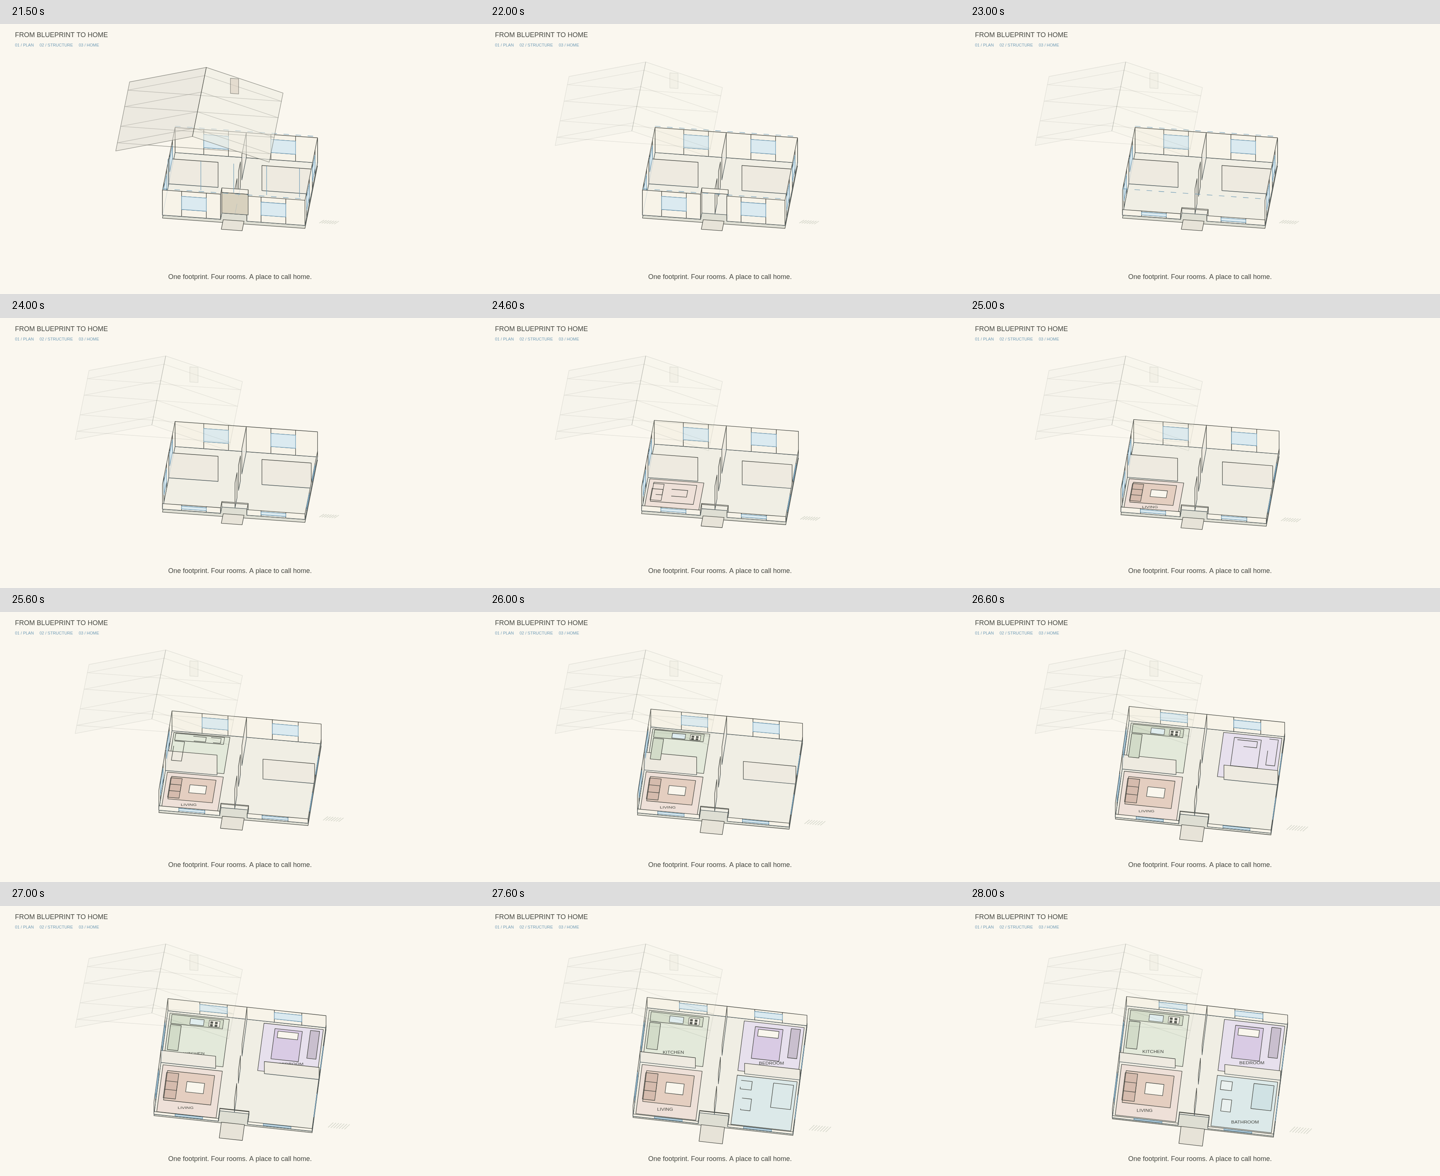
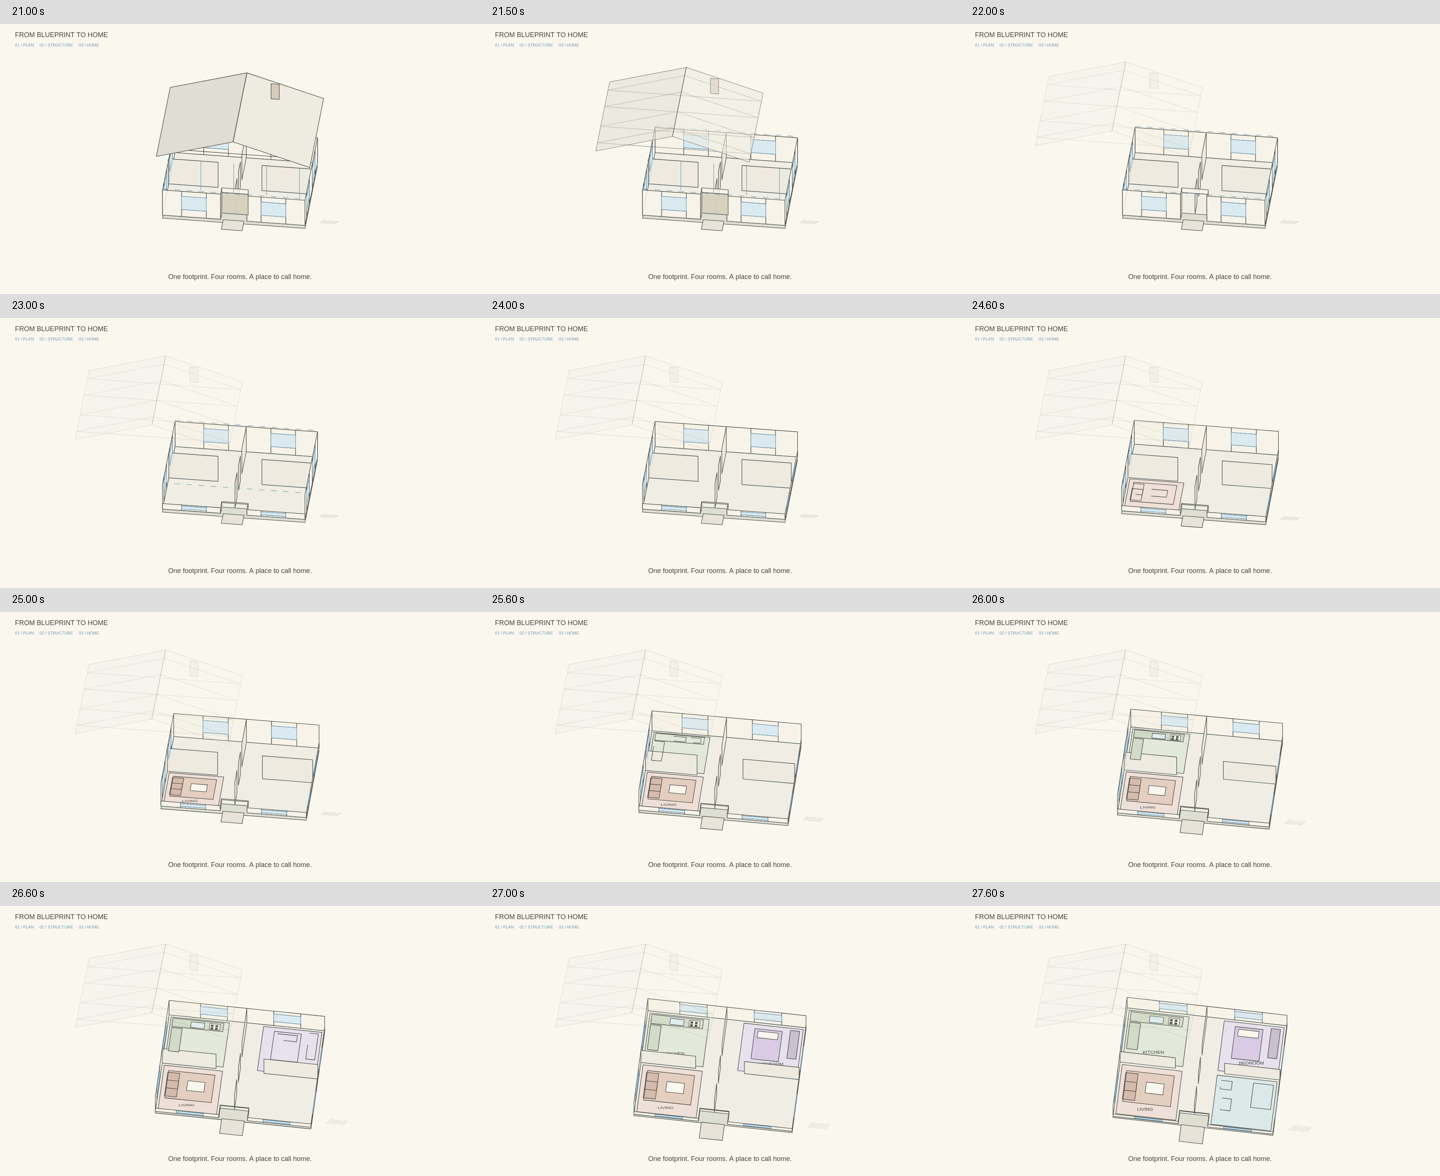
Keep roof separation cue visible and capture its reveal

diff --git a/fixtures/motionscript/stories/build-from-blueprint-to-home.ts b/fixtures/motionscript/stories/build-from-blueprint-to-home.ts
@@ -118,6 +118,7 @@ roof('ridge',[[0,-210,180],[0,210,180]],14.3);
 roof('chimney',[[100,-110,150],[130,-110,150],[130,-110,210],[100,-110,210]],14.4,'#d7cbbd');
 // Blue segmented separation guides replace a dash capability.
 for(let i=0;i<12;i++) for(const [j,y] of [-190,190].entries()) line(`guide${j}n${i}`,[[-260+i*44,y,105],[-240+i*44,y,105]],18,BLUE,24,undefined,29);
+line('roofSeparation',[[-260,232,103],[260,232,103]],18,BLUE,19.2,undefined,31);
 for(let i=0;i<5;i++) line(`liftGuide${i}`,[[i*120-240,190,110],[i*120-240,190,225]],19,BLUE,22,undefined,28);
 floorRect('entryPath',-38,193,76,58,'#e7e3d8',15,0);
 for(let i=0;i<7;i++) line(`hatch${i}`,[[310+i*9,170,0],[325+i*9,150,0]],15,'#cccfc2',undefined,undefined,0);
@@ -224,7 +225,7 @@ assert(Math.hypot(westGap.x-eastGap.x,westGap.y-eastGap.y)>120,'Central circulat
 hidden(9.9,'winRearWest'); visible(12,'winFrontEast'); visible(12,'entranceDoor');
 assert(same(vertices(item(12,'entranceDoor'))[0]!.y,vertices(item(12,'entranceDoor'))[1]!.y-96*Math.sin(.24)*.6*.8,2),'Door failed to close into recess');
 visible(13.5,'truss0'); visible(15,'roofEast'); visible(15,'chimney');
-visible(17,'entryPath'); hidden(17,'guide0n0'); visible(18.5,'guide0n0');
+visible(17,'entryPath'); hidden(17,'guide0n0'); visible(18.5,'guide0n0'); visible(18.5,'roofSeparation');
 const r19=vertices(item(19,'roofWest')),r21=vertices(item(21,'roofWest'));
 for(let k=1;k<r19.length;k++) assert(same((r19[k]!.x-r19[0]!.x)*.92,r21[k]!.x-r21[0]!.x)&&same((r19[k]!.y-r19[0]!.y)*.92,r21[k]!.y-r21[0]!.y),'Roof lift distorted assembly');
 for(const t of [19.25,19.5,19.75,20,20.25,20.5,20.75,21.5]) {
@@ -256,7 +257,7 @@ for(const [index,r] of rooms.entries()) {
 }
 assert(item(28.3,'blueFootprint').opacity>.95&&item(29.5,'blueFootprint').opacity<.3,'Blueprint highlight timing wrong');
 // Interval sweep and every required boundary: all visible path vertices above captions.
-const captureTimes=[0,1,2,2.75,3.5,4.9,5,6,7,8,9,10,11,12,12.75,13.5,14.25,15,16,17,18,19,20,21,21.5,22,23,24,24.6,25,25.6,26,26.6,27,27.6,28,28.3,29,30];
+const captureTimes=[0,1,2,2.75,3.5,4.9,5,6,7,8,9,10,11,12,12.75,13.5,14.25,15,16,17,18,18.5,19,20,21,21.5,22,23,24,24.6,25,25.6,26,26.6,27,27.6,28,28.3,29,30];
 for(let t=0;t<=30;t+=.25) for(const i of frame(t)) {
  if(i.opacity<.04||i.geometry.kind!=='path')continue;
  for(const p of vertices(i)) assert(p.x>=12&&p.x<=1268&&p.y>=80&&p.y<650,`${i.nodeId} outside drawing area at ${t}: ${JSON.stringify(p)}`);

diff --git a/docs/authoring/stories/from-blueprint-to-home/evidence/README.md b/docs/authoring/stories/from-blueprint-to-home/evidence/README.md
@@ -10,7 +10,7 @@ GVR_PREVIEW_DIR=work/home-preview npx tsx fixtures/motionscript/stories/build-fr
 
 No preview files are written without that environment variable. Browser setup uses the existing evaluation Chromium resolver and CDP client. It renders the compiled Scene IR, not an SVG representation. The builder performs a 0.25-second visible-path framing sweep, wall/blueprint base alignment, window-opening and central-circulation gap checks, roof rigidity and timing checks, room-containment checks and final blueprint-opacity checks. Successful compile and IR validation have no diagnostics. These assertions and visual inspection are local story checks, not a source-fidelity certification or a full-frame video gate.
 
-All 39 final PNGs were inspected in [contact-1.png](contact-1.png), [contact-2.png](contact-2.png), [contact-3.png](contact-3.png) and [contact-4.png](contact-4.png). Times, in seconds: 0, 1, 2, 2.75, 3.5, 4.9, 5, 6, 7, 8, 9, 10, 11, 12, 12.75, 13.5, 14.25, 15, 16, 17, 18, 19, 20, 21, 21.5, 22, 23, 24, 24.6, 25, 25.6, 26, 26.6, 27, 27.6, 28, 28.3, 29 and 30. The 12s, 28.3s and 30s frames were also inspected at full size. The 12s full-size inspection preceded the final higher-tilt/label placement refinement; the final 12s frame was subsequently reviewed in the regenerated contact sheet. The final 30s frame was inspected full size after that refinement. No continuous-motion perceptual review was performed.
+All 40 final PNGs were inspected in [contact-1.png](contact-1.png), [contact-2.png](contact-2.png), [contact-3.png](contact-3.png) and [contact-4.png](contact-4.png). Times, in seconds: 0, 1, 2, 2.75, 3.5, 4.9, 5, 6, 7, 8, 9, 10, 11, 12, 12.75, 13.5, 14.25, 15, 16, 17, 18, 18.5, 19, 20, 21, 21.5, 22, 23, 24, 24.6, 25, 25.6, 26, 26.6, 27, 27.6, 28, 28.3, 29 and 30. The 12s, 28.3s and 30s frames were also inspected at full size. The 12s full-size inspection preceded the final higher-tilt/label placement refinement; the final 12s frame was subsequently reviewed in the regenerated contact sheet. The final 30s frame was inspected full size after that refinement. The final 18.5s separation cue was also inspected full size. No continuous-motion perceptual review was performed.
 
 ## Required repository checks
 
